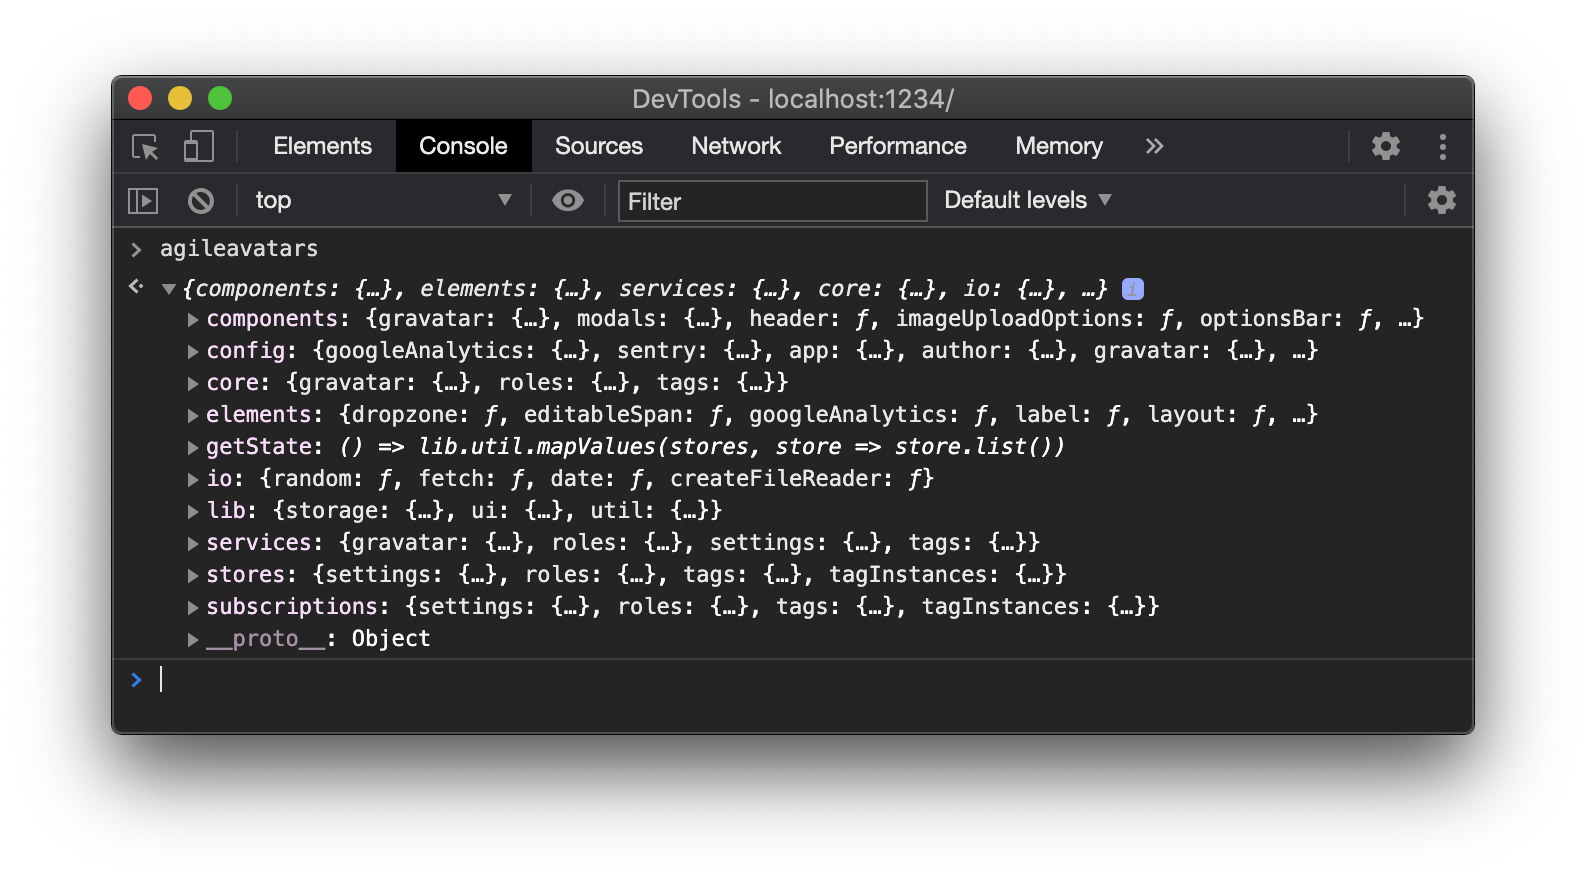
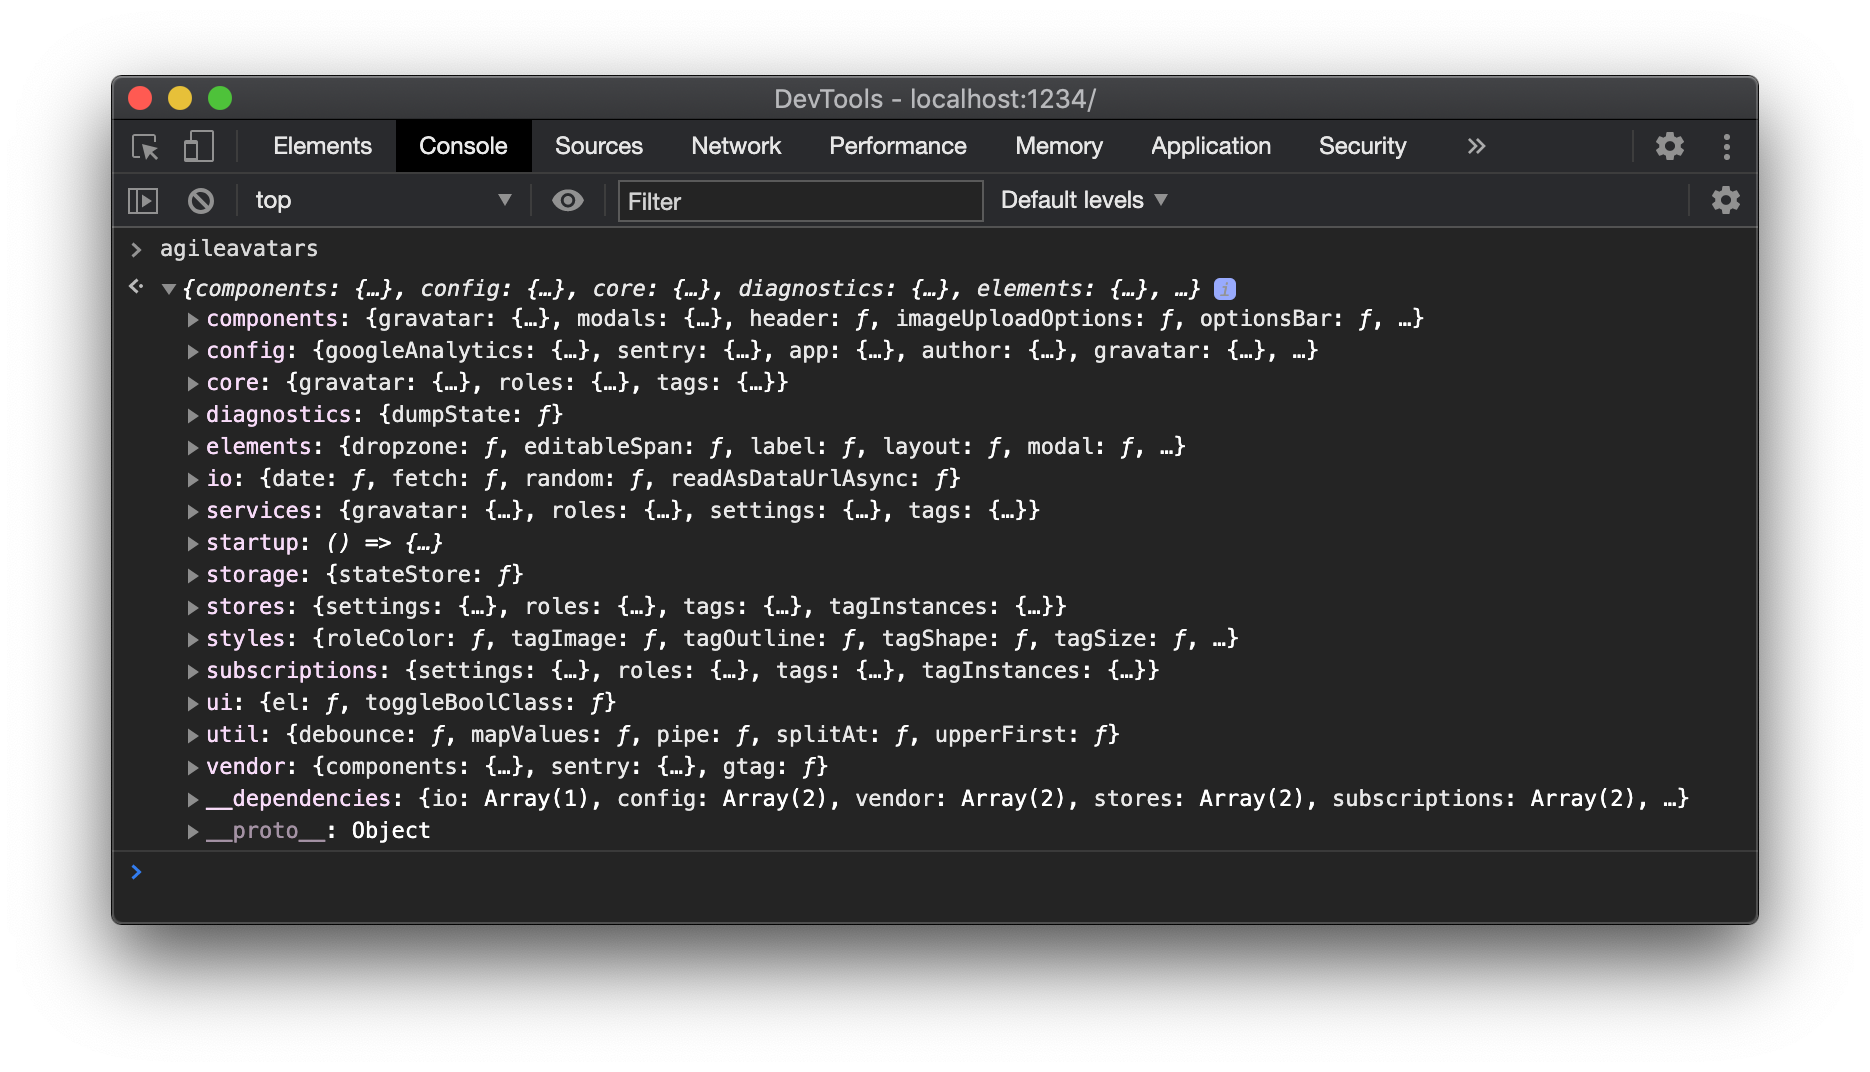
update screenshots

Changed region(s): [[0.0309, 0.0612, 0.9578, 0.9184]]

diff --git a/src/diagnostics/index.js b/src/diagnostics/index.js
@@ -1,4 +1,3 @@
 module.exports = {
-    diagram: require('./diagram'),
     dumpState: require('./dump-state')
 };
